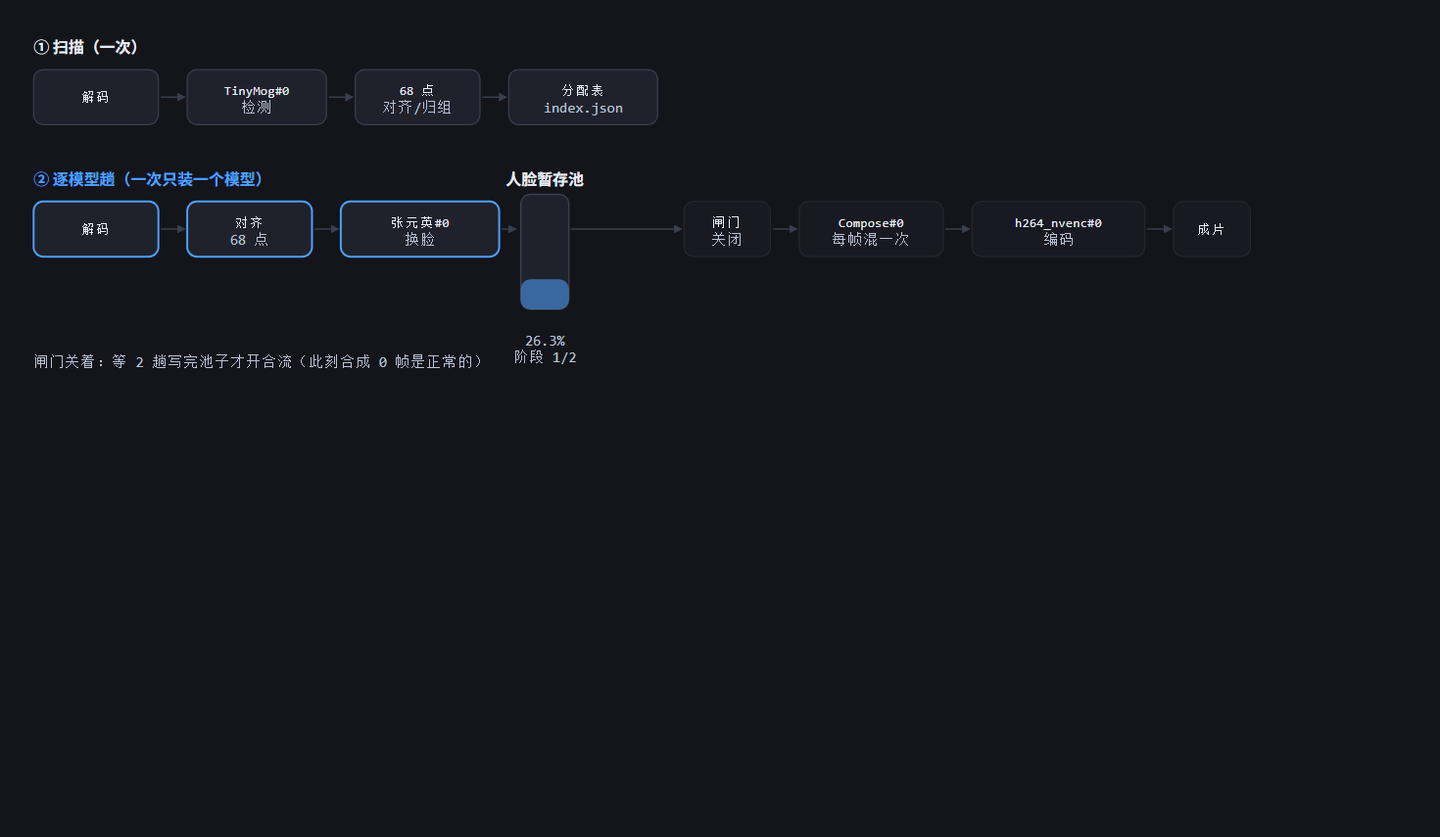
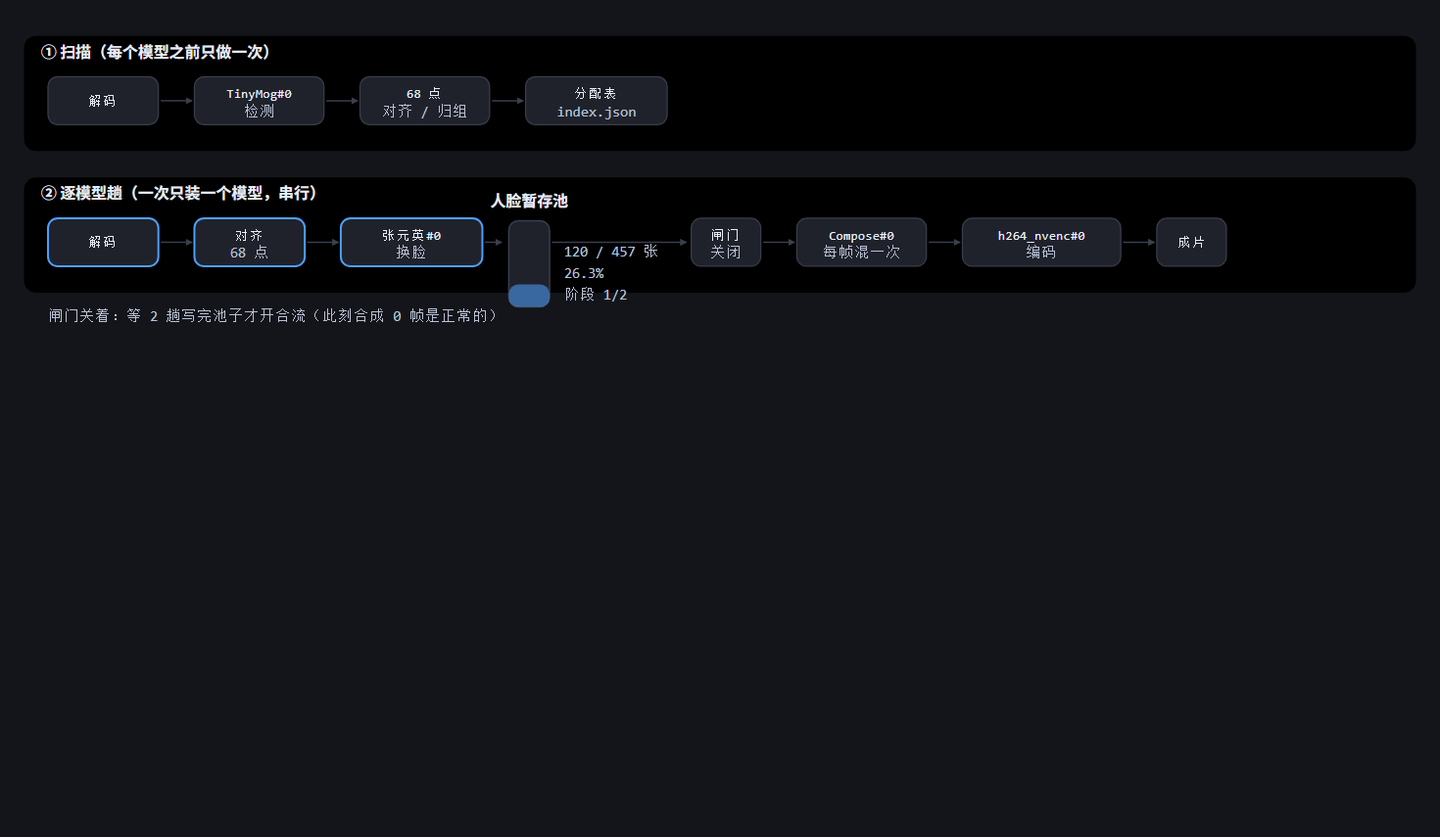
feat(ui): 流程图重画（行带式）+ 「已经在导出」不再报错
版式（用户：怎么画这么丑）：
  · 两条行带：① 扫描（每个模型之前只做一次） ② 逐模型趟（一次只装一个模型，串行）
  · 节点统一 92×40、文字居中；池 34×72 竖着，三行标签在右侧（243/457 张 · 53.2% · 阶段 2/2）
  · 闸门关着时整段后半灰，底部一行解释「等 2 趟写完池子才开合流（此刻合成 0 帧是正常的）」

顺手修掉一个把人误导的真 bug：
  · 导出接口返回 409「已经在导出」时，前端以前弹「导出未启动」——用户看着 GPU 满载却以为没跑。
    现在弹「已有导出在跑 · 界面显示的就是它现在的进度」并继续轮询。

又修掉一个我自己造成的缺失：pool() 里 l1 的 append 在某次编辑中丢了，
所以「243 / 457 张」这一行永远不显示（只有百分比和阶段）。

预览图（无头 Edge 抓真 SVG 单独成页，我自己看过）：
  app/docs/notes/flow_pass.png · flow_scan.png · flow_nomask.png

diff --git a/app/docs/notes/_pv_flow_pass.html b/app/docs/notes/_pv_flow_pass.html
@@ -1,1 +1,1 @@
-<!doctype html><meta charset=utf-8><style>body{margin:0;background:#14151a}#p-merge .mgpipe .t-lane{font-size:11px;fill:#e8ecf5;font-family:ui-monospace,Consolas,monospace}#p-merge .mgpipe .t-count{font-size:12px;fill:#b9c2d6;font-family:ui-monospace,Consolas,monospace}#p-merge .mgpipe .t-stage{font-size:13px;font-weight:600;fill:#e8ecf5}#p-merge .mgpipe .fnode{fill:#20222b;stroke:#3a3f4d;stroke-width:1}#p-merge .mgpipe .fnode.on{stroke:#4ea1ff;stroke-width:1.6}#p-merge .mgpipe .fnode.off{opacity:.45}#p-merge .mgpipe .fedge{stroke:#3a3f4d;stroke-width:1.2;fill:none}#p-merge .mgpipe .farrowhead{fill:#3a3f4d}#p-merge .mgpipe .fpool{fill:#20222b;stroke:#3a3f4d;stroke-width:1.2}#p-merge .mgpipe .fpoolwater{fill:#4ea1ff;opacity:.55}</style><div id=p-merge><div class=mgpipe><svg id="mgPipeSvg" class="mgpipe-svg" viewBox="0 0 1200 340" preserveAspectRatio="xMidYMid meet" role="img" aria-label="导出流水线实况：六列 lane、数据流曲线与在飞帧数"><defs><marker id="fArrow" viewBox="0 0 8 8" refX="7" refY="4" markerWidth="6" markerHeight="6" orient="auto"><path d="M0,0 L8,4 L0,8 z" class="farrowhead"></path></marker></defs><g><text x="28" y="44" class="t-stage">① 扫描（一次）</text><rect x="28" y="58" width="104" height="46" rx="8" class="fnode"></rect><text x="80" y="85" text-anchor="middle" class="t-lane">解码</text><path d="M 134 81 L 154 81" class="fedge" marker-end="url(#fArrow)"></path><rect x="156" y="58" width="116" height="46" rx="8" class="fnode"></rect><text x="214" y="79" text-anchor="middle" class="t-lane">TinyMog#0</text><text x="214" y="94" text-anchor="middle" class="t-count">检测</text><path d="M 274 81 L 294 81" class="fedge" marker-end="url(#fArrow)"></path><rect x="296" y="58" width="104" height="46" rx="8" class="fnode"></rect><text x="348" y="79" text-anchor="middle" class="t-lane">68 点</text><text x="348" y="94" text-anchor="middle" class="t-count">对齐/归组</text><path d="M 402 81 L 422 81" class="fedge" marker-end="url(#fArrow)"></path><rect x="424" y="58" width="124" height="46" rx="8" class="fnode"></rect><text x="486" y="79" text-anchor="middle" class="t-lane">分配表</text><text x="486" y="94" text-anchor="middle" class="t-count">index.json</text><text x="28" y="154" class="t-stage" style="fill:var(--accent,#4ea1ff)">② 逐模型趟（一次只装一个模型）</text><rect x="28" y="168" width="104" height="46" rx="8" class="fnode on"></rect><text x="80" y="195" text-anchor="middle" class="t-lane">解码</text><path d="M 134 191 L 154 191" class="fedge" marker-end="url(#fArrow)"></path><rect x="156" y="168" width="104" height="46" rx="8" class="fnode on"></rect><text x="208" y="189" text-anchor="middle" class="t-lane">对齐</text><text x="208" y="204" text-anchor="middle" class="t-count">68 点</text><path d="M 262 191 L 282 191" class="fedge" marker-end="url(#fArrow)"></path><rect x="284" y="168" width="132" height="46" rx="8" class="fnode on"></rect><text x="350" y="189" text-anchor="middle" class="t-lane">阿証-416#0</text><text x="350" y="204" text-anchor="middle" class="t-count">换脸</text><path d="M 418 191 L 438 191" class="fedge" marker-end="url(#fArrow)"></path><rect x="440" y="168" width="120" height="46" rx="8" class="fnode on"></rect><text x="500" y="189" text-anchor="middle" class="t-lane">XSegLite#0</text><text x="500" y="204" text-anchor="middle" class="t-count">遮罩</text><path d="M 562 191 L 574 191" class="fedge" marker-end="url(#fArrow)"></path><rect x="578" y="162" width="40" height="96" rx="8" class="fpool"></rect><rect x="578" y="206.95404814004377" width="40" height="51.04595185995623" rx="8" class="fpoolwater"></rect><text x="598" y="154" text-anchor="middle" class="t-stage">人脸暂存池</text><text x="598" y="288" text-anchor="middle" class="t-count">53.2%</text><text x="598" y="302" text-anchor="middle" class="t-count">阶段 2/2</text><path d="M 620 191 L 712 191" class="fedge" marker-end="url(#fArrow)"></path><rect x="714" y="168" width="72" height="46" rx="8" class="fnode off"></rect><text x="750" y="189" text-anchor="middle" class="t-lane">闸门</text><text x="750" y="204" text-anchor="middle" class="t-count">关闭</text><path d="M 788 191 L 808 191" class="fedge" marker-end="url(#fArrow)"></path><rect x="810" y="168" width="120" height="46" rx="8" class="fnode off"></rect><text x="870" y="189" text-anchor="middle" class="t-lane">Compose#0</text><text x="870" y="204" text-anchor="middle" class="t-count">每帧混一次</text><path d="M 932 191 L 952 191" class="fedge" marker-end="url(#fArrow)"></path><rect x="954" y="168" width="144" height="46" rx="8" class="fnode off"></rect><text x="1026" y="189" text-anchor="middle" class="t-lane">h264_nvenc#0</text><text x="1026" y="204" text-anchor="middle" class="t-count">编码</text><path d="M 1100 191 L 1120 191" class="fedge" marker-end="url(#fArrow)"></path><rect x="1122" y="168" width="64" height="46" rx="8" class="fnode off"></rect><text x="1154" y="195" text-anchor="middle" class="t-lane">成片</text><text x="28" y="306" class="t-count">闸门关着：等 2 趟写完池子才开合流（此刻合成 0 帧是正常的）</text></g></svg></div></div>
+<!doctype html><meta charset=utf-8><style>body{margin:0;background:#14151a}#p-merge .mgpipe .t-lane{font-size:11px;fill:#e8ecf5;font-family:ui-monospace,Consolas,monospace}#p-merge .mgpipe .t-count{font-size:12px;fill:#b9c2d6;font-family:ui-monospace,Consolas,monospace}#p-merge .mgpipe .t-stage{font-size:13px;font-weight:600;fill:#e8ecf5}#p-merge .mgpipe .fnode{fill:#20222b;stroke:#3a3f4d;stroke-width:1}#p-merge .mgpipe .fnode.on{stroke:#4ea1ff;stroke-width:1.6}#p-merge .mgpipe .fnode.off{opacity:.45}#p-merge .mgpipe .fedge{stroke:#3a3f4d;stroke-width:1.2;fill:none}#p-merge .mgpipe .farrowhead{fill:#3a3f4d}#p-merge .mgpipe .fpool{fill:#20222b;stroke:#3a3f4d;stroke-width:1.2}#p-merge .mgpipe .fpoolwater{fill:#4ea1ff;opacity:.55}</style><div id=p-merge><div class=mgpipe><svg id="mgPipeSvg" class="mgpipe-svg" viewBox="0 0 1200 340" preserveAspectRatio="xMidYMid meet" role="img" aria-label="导出流水线实况：六列 lane、数据流曲线与在飞帧数"><defs><marker id="fArrow" viewBox="0 0 8 8" refX="7" refY="4" markerWidth="5" markerHeight="5" orient="auto"><path d="M0,0 L8,4 L0,8 z" class="farrowhead"></path></marker></defs><g><rect x="20" y="30" width="1160" height="96" rx="10" class="fband"></rect><text x="34" y="48" class="t-stage">① 扫描（每个模型之前只做一次）</text><rect x="20" y="148" width="1160" height="96" rx="10" class="fband on"></rect><text x="34" y="166" class="t-stage on">② 逐模型趟（一次只装一个模型，串行）</text><rect x="40" y="64" width="92" height="40" rx="8" class="fnode"></rect><text x="86" y="88" text-anchor="middle" class="t-lane">解码</text><path d="M 134 84 L 160 84" class="fedge" marker-end="url(#fArrow)"></path><rect x="162" y="64" width="108" height="40" rx="8" class="fnode"></rect><text x="216" y="82" text-anchor="middle" class="t-lane">TinyMog#0</text><text x="216" y="97" text-anchor="middle" class="t-count">检测</text><path d="M 272 84 L 298 84" class="fedge" marker-end="url(#fArrow)"></path><rect x="300" y="64" width="108" height="40" rx="8" class="fnode"></rect><text x="354" y="82" text-anchor="middle" class="t-lane">68 点</text><text x="354" y="97" text-anchor="middle" class="t-count">对齐 / 归组</text><path d="M 410 84 L 436 84" class="fedge" marker-end="url(#fArrow)"></path><rect x="438" y="64" width="118" height="40" rx="8" class="fnode"></rect><text x="497" y="82" text-anchor="middle" class="t-lane">分配表</text><text x="497" y="97" text-anchor="middle" class="t-count">index.json</text><rect x="40" y="182" width="92" height="40" rx="8" class="fnode on"></rect><text x="86" y="206" text-anchor="middle" class="t-lane">解码</text><path d="M 134 202 L 160 202" class="fedge" marker-end="url(#fArrow)"></path><rect x="162" y="182" width="92" height="40" rx="8" class="fnode on"></rect><text x="208" y="200" text-anchor="middle" class="t-lane">对齐</text><text x="208" y="215" text-anchor="middle" class="t-count">68 点</text><path d="M 256 202 L 282 202" class="fedge" marker-end="url(#fArrow)"></path><rect x="284" y="182" width="118" height="40" rx="8" class="fnode on"></rect><text x="343" y="200" text-anchor="middle" class="t-lane">阿証-416#0</text><text x="343" y="215" text-anchor="middle" class="t-count">换脸</text><path d="M 404 202 L 430 202" class="fedge" marker-end="url(#fArrow)"></path><rect x="432" y="182" width="108" height="40" rx="8" class="fnode on"></rect><text x="486" y="200" text-anchor="middle" class="t-lane">XSegLite#0</text><text x="486" y="215" text-anchor="middle" class="t-count">遮罩</text><path d="M 542 202 L 556 202" class="fedge" marker-end="url(#fArrow)"></path><rect x="562" y="184" width="34" height="72" rx="8" class="fpool"></rect><rect x="562" y="217.7155361050328" width="34" height="38.284463894967175" rx="8" class="fpoolwater"></rect><text x="579" y="172" text-anchor="middle" class="t-stage">人脸暂存池</text><text x="608" y="214" class="t-count">243 / 457 张</text><text x="608" y="232" class="t-count">53.2%</text><text x="608" y="250" class="t-count">阶段 2/2</text><path d="M 598 202 L 710 202" class="fedge" marker-end="url(#fArrow)"></path><rect x="714" y="182" width="58" height="40" rx="8" class="fnode"></rect><text x="743" y="200" text-anchor="middle" class="t-lane">闸门</text><text x="743" y="215" text-anchor="middle" class="t-count">关闭</text><path d="M 774 202 L 800 202" class="fedge" marker-end="url(#fArrow)"></path><rect x="802" y="182" width="108" height="40" rx="8" class="fnode"></rect><text x="856" y="200" text-anchor="middle" class="t-lane">Compose#0</text><text x="856" y="215" text-anchor="middle" class="t-count">每帧混一次</text><path d="M 912 202 L 938 202" class="fedge" marker-end="url(#fArrow)"></path><rect x="940" y="182" width="132" height="40" rx="8" class="fnode"></rect><text x="1006" y="200" text-anchor="middle" class="t-lane">h264_nvenc#0</text><text x="1006" y="215" text-anchor="middle" class="t-count">编码</text><path d="M 1074 202 L 1100 202" class="fedge" marker-end="url(#fArrow)"></path><rect x="1102" y="182" width="58" height="40" rx="8" class="fnode"></rect><text x="1131" y="206" text-anchor="middle" class="t-lane">成片</text><text x="40" y="268" class="t-count">闸门关着：等 2 趟写完池子才开合流（此刻合成 0 帧是正常的）</text></g></svg></div></div>

diff --git a/app/docs/notes/_pv_flow_scan.html b/app/docs/notes/_pv_flow_scan.html
@@ -1,1 +1,1 @@
-<!doctype html><meta charset=utf-8><style>body{margin:0;background:#14151a}#p-merge .mgpipe .t-lane{font-size:11px;fill:#e8ecf5;font-family:ui-monospace,Consolas,monospace}#p-merge .mgpipe .t-count{font-size:12px;fill:#b9c2d6;font-family:ui-monospace,Consolas,monospace}#p-merge .mgpipe .t-stage{font-size:13px;font-weight:600;fill:#e8ecf5}#p-merge .mgpipe .fnode{fill:#20222b;stroke:#3a3f4d;stroke-width:1}#p-merge .mgpipe .fnode.on{stroke:#4ea1ff;stroke-width:1.6}#p-merge .mgpipe .fnode.off{opacity:.45}#p-merge .mgpipe .fedge{stroke:#3a3f4d;stroke-width:1.2;fill:none}#p-merge .mgpipe .farrowhead{fill:#3a3f4d}#p-merge .mgpipe .fpool{fill:#20222b;stroke:#3a3f4d;stroke-width:1.2}#p-merge .mgpipe .fpoolwater{fill:#4ea1ff;opacity:.55}</style><div id=p-merge><div class=mgpipe><svg id="mgPipeSvg" class="mgpipe-svg" viewBox="0 0 1200 340" preserveAspectRatio="xMidYMid meet" role="img" aria-label="导出流水线实况：六列 lane、数据流曲线与在飞帧数"><defs><marker id="fArrow" viewBox="0 0 8 8" refX="7" refY="4" markerWidth="6" markerHeight="6" orient="auto"><path d="M0,0 L8,4 L0,8 z" class="farrowhead"></path></marker></defs><g><text x="28" y="44" class="t-stage" style="fill:var(--accent,#4ea1ff)">① 扫描（一次）</text><rect x="28" y="58" width="104" height="46" rx="8" class="fnode on"></rect><text x="80" y="85" text-anchor="middle" class="t-lane">解码</text><path d="M 134 81 L 154 81" class="fedge" marker-end="url(#fArrow)"></path><rect x="156" y="58" width="116" height="46" rx="8" class="fnode on"></rect><text x="214" y="79" text-anchor="middle" class="t-lane">TinyMog#0</text><text x="214" y="94" text-anchor="middle" class="t-count">检测</text><path d="M 274 81 L 294 81" class="fedge" marker-end="url(#fArrow)"></path><rect x="296" y="58" width="104" height="46" rx="8" class="fnode on"></rect><text x="348" y="79" text-anchor="middle" class="t-lane">68 点</text><text x="348" y="94" text-anchor="middle" class="t-count">对齐/归组</text><path d="M 402 81 L 422 81" class="fedge" marker-end="url(#fArrow)"></path><rect x="424" y="58" width="124" height="46" rx="8" class="fnode on"></rect><text x="486" y="79" text-anchor="middle" class="t-lane">分配表</text><text x="486" y="94" text-anchor="middle" class="t-count">index.json</text><text x="28" y="154" class="t-stage">② 逐模型趟（一次只装一个模型）</text><rect x="28" y="168" width="104" height="46" rx="8" class="fnode"></rect><text x="80" y="195" text-anchor="middle" class="t-lane">解码</text><path d="M 134 191 L 154 191" class="fedge" marker-end="url(#fArrow)"></path><rect x="156" y="168" width="104" height="46" rx="8" class="fnode"></rect><text x="208" y="189" text-anchor="middle" class="t-lane">对齐</text><text x="208" y="204" text-anchor="middle" class="t-count">68 点</text><path d="M 262 191 L 282 191" class="fedge" marker-end="url(#fArrow)"></path><rect x="284" y="168" width="132" height="46" rx="8" class="fnode"></rect><text x="350" y="189" text-anchor="middle" class="t-lane">模型#0</text><text x="350" y="204" text-anchor="middle" class="t-count">换脸</text><path d="M 418 191 L 438 191" class="fedge" marker-end="url(#fArrow)"></path><rect x="440" y="168" width="120" height="46" rx="8" class="fnode"></rect><text x="500" y="189" text-anchor="middle" class="t-lane">XSegLite#0</text><text x="500" y="204" text-anchor="middle" class="t-count">遮罩</text><path d="M 562 191 L 574 191" class="fedge" marker-end="url(#fArrow)"></path><rect x="578" y="162" width="40" height="96" rx="8" class="fpool"></rect><rect x="578" y="258" width="40" height="0" rx="8" class="fpoolwater"></rect><text x="598" y="154" text-anchor="middle" class="t-stage">人脸暂存池</text><text x="598" y="288" text-anchor="middle" class="t-count">占比未知</text><text x="598" y="302" text-anchor="middle" class="t-count">已发现（还在涨）</text><path d="M 620 191 L 712 191" class="fedge" marker-end="url(#fArrow)"></path><rect x="714" y="168" width="72" height="46" rx="8" class="fnode off"></rect><text x="750" y="189" text-anchor="middle" class="t-lane">闸门</text><text x="750" y="204" text-anchor="middle" class="t-count">关闭</text><path d="M 788 191 L 808 191" class="fedge" marker-end="url(#fArrow)"></path><rect x="810" y="168" width="120" height="46" rx="8" class="fnode off"></rect><text x="870" y="189" text-anchor="middle" class="t-lane">Compose#0</text><text x="870" y="204" text-anchor="middle" class="t-count">每帧混一次</text><path d="M 932 191 L 952 191" class="fedge" marker-end="url(#fArrow)"></path><rect x="954" y="168" width="144" height="46" rx="8" class="fnode off"></rect><text x="1026" y="189" text-anchor="middle" class="t-lane">h264_nvenc#0</text><text x="1026" y="204" text-anchor="middle" class="t-count">编码</text><path d="M 1100 191 L 1120 191" class="fedge" marker-end="url(#fArrow)"></path><rect x="1122" y="168" width="64" height="46" rx="8" class="fnode off"></rect><text x="1154" y="195" text-anchor="middle" class="t-lane">成片</text><text x="28" y="306" class="t-count">闸门关着：等 2 趟写完池子才开合流（此刻合成 0 帧是正常的）</text></g></svg></div></div>
+<!doctype html><meta charset=utf-8><style>body{margin:0;background:#14151a}#p-merge .mgpipe .t-lane{font-size:11px;fill:#e8ecf5;font-family:ui-monospace,Consolas,monospace}#p-merge .mgpipe .t-count{font-size:12px;fill:#b9c2d6;font-family:ui-monospace,Consolas,monospace}#p-merge .mgpipe .t-stage{font-size:13px;font-weight:600;fill:#e8ecf5}#p-merge .mgpipe .fnode{fill:#20222b;stroke:#3a3f4d;stroke-width:1}#p-merge .mgpipe .fnode.on{stroke:#4ea1ff;stroke-width:1.6}#p-merge .mgpipe .fnode.off{opacity:.45}#p-merge .mgpipe .fedge{stroke:#3a3f4d;stroke-width:1.2;fill:none}#p-merge .mgpipe .farrowhead{fill:#3a3f4d}#p-merge .mgpipe .fpool{fill:#20222b;stroke:#3a3f4d;stroke-width:1.2}#p-merge .mgpipe .fpoolwater{fill:#4ea1ff;opacity:.55}</style><div id=p-merge><div class=mgpipe><svg id="mgPipeSvg" class="mgpipe-svg" viewBox="0 0 1200 340" preserveAspectRatio="xMidYMid meet" role="img" aria-label="导出流水线实况：六列 lane、数据流曲线与在飞帧数"><defs><marker id="fArrow" viewBox="0 0 8 8" refX="7" refY="4" markerWidth="5" markerHeight="5" orient="auto"><path d="M0,0 L8,4 L0,8 z" class="farrowhead"></path></marker></defs><g><rect x="20" y="30" width="1160" height="96" rx="10" class="fband on"></rect><text x="34" y="48" class="t-stage on">① 扫描（每个模型之前只做一次）</text><rect x="20" y="148" width="1160" height="96" rx="10" class="fband"></rect><text x="34" y="166" class="t-stage">② 逐模型趟（一次只装一个模型，串行）</text><rect x="40" y="64" width="92" height="40" rx="8" class="fnode on"></rect><text x="86" y="88" text-anchor="middle" class="t-lane">解码</text><path d="M 134 84 L 160 84" class="fedge" marker-end="url(#fArrow)"></path><rect x="162" y="64" width="108" height="40" rx="8" class="fnode on"></rect><text x="216" y="82" text-anchor="middle" class="t-lane">TinyMog#0</text><text x="216" y="97" text-anchor="middle" class="t-count">检测</text><path d="M 272 84 L 298 84" class="fedge" marker-end="url(#fArrow)"></path><rect x="300" y="64" width="108" height="40" rx="8" class="fnode on"></rect><text x="354" y="82" text-anchor="middle" class="t-lane">68 点</text><text x="354" y="97" text-anchor="middle" class="t-count">对齐 / 归组</text><path d="M 410 84 L 436 84" class="fedge" marker-end="url(#fArrow)"></path><rect x="438" y="64" width="118" height="40" rx="8" class="fnode on"></rect><text x="497" y="82" text-anchor="middle" class="t-lane">分配表</text><text x="497" y="97" text-anchor="middle" class="t-count">index.json</text><rect x="40" y="182" width="92" height="40" rx="8" class="fnode"></rect><text x="86" y="206" text-anchor="middle" class="t-lane">解码</text><path d="M 134 202 L 160 202" class="fedge" marker-end="url(#fArrow)"></path><rect x="162" y="182" width="92" height="40" rx="8" class="fnode"></rect><text x="208" y="200" text-anchor="middle" class="t-lane">对齐</text><text x="208" y="215" text-anchor="middle" class="t-count">68 点</text><path d="M 256 202 L 282 202" class="fedge" marker-end="url(#fArrow)"></path><rect x="284" y="182" width="118" height="40" rx="8" class="fnode"></rect><text x="343" y="200" text-anchor="middle" class="t-lane">模型#0</text><text x="343" y="215" text-anchor="middle" class="t-count">换脸</text><path d="M 404 202 L 430 202" class="fedge" marker-end="url(#fArrow)"></path><rect x="432" y="182" width="108" height="40" rx="8" class="fnode"></rect><text x="486" y="200" text-anchor="middle" class="t-lane">XSegLite#0</text><text x="486" y="215" text-anchor="middle" class="t-count">遮罩</text><path d="M 542 202 L 556 202" class="fedge" marker-end="url(#fArrow)"></path><rect x="562" y="184" width="34" height="72" rx="8" class="fpool"></rect><rect x="562" y="256" width="34" height="0" rx="8" class="fpoolwater"></rect><text x="579" y="172" text-anchor="middle" class="t-stage">人脸暂存池</text><text x="608" y="214" class="t-count">187 张</text><text x="608" y="232" class="t-count">占比未知</text><text x="608" y="250" class="t-count"></text><path d="M 598 202 L 710 202" class="fedge" marker-end="url(#fArrow)"></path><rect x="714" y="182" width="58" height="40" rx="8" class="fnode"></rect><text x="743" y="200" text-anchor="middle" class="t-lane">闸门</text><text x="743" y="215" text-anchor="middle" class="t-count">关闭</text><path d="M 774 202 L 800 202" class="fedge" marker-end="url(#fArrow)"></path><rect x="802" y="182" width="108" height="40" rx="8" class="fnode"></rect><text x="856" y="200" text-anchor="middle" class="t-lane">Compose#0</text><text x="856" y="215" text-anchor="middle" class="t-count">每帧混一次</text><path d="M 912 202 L 938 202" class="fedge" marker-end="url(#fArrow)"></path><rect x="940" y="182" width="132" height="40" rx="8" class="fnode"></rect><text x="1006" y="200" text-anchor="middle" class="t-lane">h264_nvenc#0</text><text x="1006" y="215" text-anchor="middle" class="t-count">编码</text><path d="M 1074 202 L 1100 202" class="fedge" marker-end="url(#fArrow)"></path><rect x="1102" y="182" width="58" height="40" rx="8" class="fnode"></rect><text x="1131" y="206" text-anchor="middle" class="t-lane">成片</text><text x="40" y="268" class="t-count">闸门关着：等 2 趟写完池子才开合流（此刻合成 0 帧是正常的）</text></g></svg></div></div>

diff --git a/app/docs/notes/_pv_flow_nomask.html b/app/docs/notes/_pv_flow_nomask.html
@@ -1,1 +1,1 @@
-<!doctype html><meta charset=utf-8><style>body{margin:0;background:#14151a}#p-merge .mgpipe .t-lane{font-size:11px;fill:#e8ecf5;font-family:ui-monospace,Consolas,monospace}#p-merge .mgpipe .t-count{font-size:12px;fill:#b9c2d6;font-family:ui-monospace,Consolas,monospace}#p-merge .mgpipe .t-stage{font-size:13px;font-weight:600;fill:#e8ecf5}#p-merge .mgpipe .fnode{fill:#20222b;stroke:#3a3f4d;stroke-width:1}#p-merge .mgpipe .fnode.on{stroke:#4ea1ff;stroke-width:1.6}#p-merge .mgpipe .fnode.off{opacity:.45}#p-merge .mgpipe .fedge{stroke:#3a3f4d;stroke-width:1.2;fill:none}#p-merge .mgpipe .farrowhead{fill:#3a3f4d}#p-merge .mgpipe .fpool{fill:#20222b;stroke:#3a3f4d;stroke-width:1.2}#p-merge .mgpipe .fpoolwater{fill:#4ea1ff;opacity:.55}</style><div id=p-merge><div class=mgpipe><svg id="mgPipeSvg" class="mgpipe-svg" viewBox="0 0 1200 340" preserveAspectRatio="xMidYMid meet" role="img" aria-label="导出流水线实况：六列 lane、数据流曲线与在飞帧数"><defs><marker id="fArrow" viewBox="0 0 8 8" refX="7" refY="4" markerWidth="6" markerHeight="6" orient="auto"><path d="M0,0 L8,4 L0,8 z" class="farrowhead"></path></marker></defs><g><text x="28" y="44" class="t-stage">① 扫描（一次）</text><rect x="28" y="58" width="104" height="46" rx="8" class="fnode"></rect><text x="80" y="85" text-anchor="middle" class="t-lane">解码</text><path d="M 134 81 L 154 81" class="fedge" marker-end="url(#fArrow)"></path><rect x="156" y="58" width="116" height="46" rx="8" class="fnode"></rect><text x="214" y="79" text-anchor="middle" class="t-lane">TinyMog#0</text><text x="214" y="94" text-anchor="middle" class="t-count">检测</text><path d="M 274 81 L 294 81" class="fedge" marker-end="url(#fArrow)"></path><rect x="296" y="58" width="104" height="46" rx="8" class="fnode"></rect><text x="348" y="79" text-anchor="middle" class="t-lane">68 点</text><text x="348" y="94" text-anchor="middle" class="t-count">对齐/归组</text><path d="M 402 81 L 422 81" class="fedge" marker-end="url(#fArrow)"></path><rect x="424" y="58" width="124" height="46" rx="8" class="fnode"></rect><text x="486" y="79" text-anchor="middle" class="t-lane">分配表</text><text x="486" y="94" text-anchor="middle" class="t-count">index.json</text><text x="28" y="154" class="t-stage" style="fill:var(--accent,#4ea1ff)">② 逐模型趟（一次只装一个模型）</text><rect x="28" y="168" width="104" height="46" rx="8" class="fnode on"></rect><text x="80" y="195" text-anchor="middle" class="t-lane">解码</text><path d="M 134 191 L 154 191" class="fedge" marker-end="url(#fArrow)"></path><rect x="156" y="168" width="104" height="46" rx="8" class="fnode on"></rect><text x="208" y="189" text-anchor="middle" class="t-lane">对齐</text><text x="208" y="204" text-anchor="middle" class="t-count">68 点</text><path d="M 262 191 L 282 191" class="fedge" marker-end="url(#fArrow)"></path><rect x="284" y="168" width="132" height="46" rx="8" class="fnode on"></rect><text x="350" y="189" text-anchor="middle" class="t-lane">张元英#0</text><text x="350" y="204" text-anchor="middle" class="t-count">换脸</text><path d="M 418 191 L 430 191" class="fedge" marker-end="url(#fArrow)"></path><rect x="434" y="162" width="40" height="96" rx="8" class="fpool"></rect><rect x="434" y="232.79212253829323" width="40" height="25.20787746170678" rx="8" class="fpoolwater"></rect><text x="454" y="154" text-anchor="middle" class="t-stage">人脸暂存池</text><text x="454" y="288" text-anchor="middle" class="t-count">26.3%</text><text x="454" y="302" text-anchor="middle" class="t-count">阶段 1/2</text><path d="M 476 191 L 568 191" class="fedge" marker-end="url(#fArrow)"></path><rect x="570" y="168" width="72" height="46" rx="8" class="fnode off"></rect><text x="606" y="189" text-anchor="middle" class="t-lane">闸门</text><text x="606" y="204" text-anchor="middle" class="t-count">关闭</text><path d="M 644 191 L 664 191" class="fedge" marker-end="url(#fArrow)"></path><rect x="666" y="168" width="120" height="46" rx="8" class="fnode off"></rect><text x="726" y="189" text-anchor="middle" class="t-lane">Compose#0</text><text x="726" y="204" text-anchor="middle" class="t-count">每帧混一次</text><path d="M 788 191 L 808 191" class="fedge" marker-end="url(#fArrow)"></path><rect x="810" y="168" width="144" height="46" rx="8" class="fnode off"></rect><text x="882" y="189" text-anchor="middle" class="t-lane">h264_nvenc#0</text><text x="882" y="204" text-anchor="middle" class="t-count">编码</text><path d="M 956 191 L 976 191" class="fedge" marker-end="url(#fArrow)"></path><rect x="978" y="168" width="64" height="46" rx="8" class="fnode off"></rect><text x="1010" y="195" text-anchor="middle" class="t-lane">成片</text><text x="28" y="306" class="t-count">闸门关着：等 2 趟写完池子才开合流（此刻合成 0 帧是正常的）</text></g></svg></div></div>
+<!doctype html><meta charset=utf-8><style>body{margin:0;background:#14151a}#p-merge .mgpipe .t-lane{font-size:11px;fill:#e8ecf5;font-family:ui-monospace,Consolas,monospace}#p-merge .mgpipe .t-count{font-size:12px;fill:#b9c2d6;font-family:ui-monospace,Consolas,monospace}#p-merge .mgpipe .t-stage{font-size:13px;font-weight:600;fill:#e8ecf5}#p-merge .mgpipe .fnode{fill:#20222b;stroke:#3a3f4d;stroke-width:1}#p-merge .mgpipe .fnode.on{stroke:#4ea1ff;stroke-width:1.6}#p-merge .mgpipe .fnode.off{opacity:.45}#p-merge .mgpipe .fedge{stroke:#3a3f4d;stroke-width:1.2;fill:none}#p-merge .mgpipe .farrowhead{fill:#3a3f4d}#p-merge .mgpipe .fpool{fill:#20222b;stroke:#3a3f4d;stroke-width:1.2}#p-merge .mgpipe .fpoolwater{fill:#4ea1ff;opacity:.55}</style><div id=p-merge><div class=mgpipe><svg id="mgPipeSvg" class="mgpipe-svg" viewBox="0 0 1200 340" preserveAspectRatio="xMidYMid meet" role="img" aria-label="导出流水线实况：六列 lane、数据流曲线与在飞帧数"><defs><marker id="fArrow" viewBox="0 0 8 8" refX="7" refY="4" markerWidth="5" markerHeight="5" orient="auto"><path d="M0,0 L8,4 L0,8 z" class="farrowhead"></path></marker></defs><g><rect x="20" y="30" width="1160" height="96" rx="10" class="fband"></rect><text x="34" y="48" class="t-stage">① 扫描（每个模型之前只做一次）</text><rect x="20" y="148" width="1160" height="96" rx="10" class="fband on"></rect><text x="34" y="166" class="t-stage on">② 逐模型趟（一次只装一个模型，串行）</text><rect x="40" y="64" width="92" height="40" rx="8" class="fnode"></rect><text x="86" y="88" text-anchor="middle" class="t-lane">解码</text><path d="M 134 84 L 160 84" class="fedge" marker-end="url(#fArrow)"></path><rect x="162" y="64" width="108" height="40" rx="8" class="fnode"></rect><text x="216" y="82" text-anchor="middle" class="t-lane">TinyMog#0</text><text x="216" y="97" text-anchor="middle" class="t-count">检测</text><path d="M 272 84 L 298 84" class="fedge" marker-end="url(#fArrow)"></path><rect x="300" y="64" width="108" height="40" rx="8" class="fnode"></rect><text x="354" y="82" text-anchor="middle" class="t-lane">68 点</text><text x="354" y="97" text-anchor="middle" class="t-count">对齐 / 归组</text><path d="M 410 84 L 436 84" class="fedge" marker-end="url(#fArrow)"></path><rect x="438" y="64" width="118" height="40" rx="8" class="fnode"></rect><text x="497" y="82" text-anchor="middle" class="t-lane">分配表</text><text x="497" y="97" text-anchor="middle" class="t-count">index.json</text><rect x="40" y="182" width="92" height="40" rx="8" class="fnode on"></rect><text x="86" y="206" text-anchor="middle" class="t-lane">解码</text><path d="M 134 202 L 160 202" class="fedge" marker-end="url(#fArrow)"></path><rect x="162" y="182" width="92" height="40" rx="8" class="fnode on"></rect><text x="208" y="200" text-anchor="middle" class="t-lane">对齐</text><text x="208" y="215" text-anchor="middle" class="t-count">68 点</text><path d="M 256 202 L 282 202" class="fedge" marker-end="url(#fArrow)"></path><rect x="284" y="182" width="118" height="40" rx="8" class="fnode on"></rect><text x="343" y="200" text-anchor="middle" class="t-lane">张元英#0</text><text x="343" y="215" text-anchor="middle" class="t-count">换脸</text><path d="M 404 202 L 418 202" class="fedge" marker-end="url(#fArrow)"></path><rect x="424" y="184" width="34" height="72" rx="8" class="fpool"></rect><rect x="424" y="237.0940919037199" width="34" height="18.905908096280086" rx="8" class="fpoolwater"></rect><text x="441" y="172" text-anchor="middle" class="t-stage">人脸暂存池</text><text x="470" y="214" class="t-count">120 / 457 张</text><text x="470" y="232" class="t-count">26.3%</text><text x="470" y="250" class="t-count">阶段 1/2</text><path d="M 460 202 L 572 202" class="fedge" marker-end="url(#fArrow)"></path><rect x="576" y="182" width="58" height="40" rx="8" class="fnode"></rect><text x="605" y="200" text-anchor="middle" class="t-lane">闸门</text><text x="605" y="215" text-anchor="middle" class="t-count">关闭</text><path d="M 636 202 L 662 202" class="fedge" marker-end="url(#fArrow)"></path><rect x="664" y="182" width="108" height="40" rx="8" class="fnode"></rect><text x="718" y="200" text-anchor="middle" class="t-lane">Compose#0</text><text x="718" y="215" text-anchor="middle" class="t-count">每帧混一次</text><path d="M 774 202 L 800 202" class="fedge" marker-end="url(#fArrow)"></path><rect x="802" y="182" width="132" height="40" rx="8" class="fnode"></rect><text x="868" y="200" text-anchor="middle" class="t-lane">h264_nvenc#0</text><text x="868" y="215" text-anchor="middle" class="t-count">编码</text><path d="M 936 202 L 962 202" class="fedge" marker-end="url(#fArrow)"></path><rect x="964" y="182" width="58" height="40" rx="8" class="fnode"></rect><text x="993" y="206" text-anchor="middle" class="t-lane">成片</text><text x="40" y="268" class="t-count">闸门关着：等 2 趟写完池子才开合流（此刻合成 0 帧是正常的）</text></g></svg></div></div>

diff --git a/app/web/js/app/21-pipe-phases.js b/app/web/js/app/21-pipe-phases.js
@@ -20,7 +20,8 @@
   }
 
   /* 一个环节：圆角矩形 + 名字 + 副字 */
-  function node(g, x, y, w, h, label, sub, state) {
+  function node(g, x, y, w, h, label, sub, on) {
+    var state = on ? "on" : "";
     g.appendChild(mk("rect", { x: x, y: y, width: w, height: h, rx: 8,
                               "class": "fnode" + (state ? " " + state : "") }));
     var t = mk("text", { x: x + w / 2, y: y + (sub ? h / 2 - 2 : h / 2 + 4),
@@ -45,97 +46,91 @@
     var fillH = Math.max(0, h * pct);
     g.appendChild(mk("rect", { x: x, y: y + (h - fillH), width: w, height: fillH,
                                rx: 8, "class": "fpoolwater" }));
-    var ttl = mk("text", { x: x + w / 2, y: y - 8, "text-anchor": "middle", "class": "t-stage" });
+    var ttl = mk("text", { x: x + w / 2, y: y - 12, "text-anchor": "middle", "class": "t-stage" });
     ttl.textContent = "人脸暂存池"; g.appendChild(ttl);
-    var l1 = mk("text", { x: x + w / 2, y: y + h + 16, "text-anchor": "middle", "class": "t-count" });
+    var l1 = mk("text", { x: x + w + 12, y: y + 30, "class": "t-count" });
     l1.textContent = scanning ? (faces + " 张") : (faces + " / " + (total || "?") + " 张");
-    var l2 = mk("text", { x: x + w / 2, y: y + h + 30, "text-anchor": "middle", "class": "t-count" });
+    g.appendChild(l1);
+    var l2 = mk("text", { x: x + w + 12, y: y + 48, "class": "t-count" });
     l2.textContent = scanning ? "占比未知" : (total ? (Math.round(pct * 1000) / 10) + "%" : "—");
     g.appendChild(l2);
-    var l3 = mk("text", { x: x + w / 2, y: y + h + 44, "text-anchor": "middle", "class": "t-count" });
+    var l3 = mk("text", { x: x + w + 12, y: y + 66, "class": "t-count" });
     l3.textContent = stageTxt || ""; g.appendChild(l3);
   }
 
   function draw(svg, d) {
-    var W = 1200, H = 340;
     while (svg.firstChild) svg.removeChild(svg.firstChild);
     var defs = mk("defs");
     var m = mk("marker", { id: "fArrow", viewBox: "0 0 8 8", refX: 7, refY: 4,
-                            markerWidth: 6, markerHeight: 6, orient: "auto" });
+                            markerWidth: 5, markerHeight: 5, orient: "auto" });
     m.appendChild(mk("path", { d: "M0,0 L8,4 L0,8 z", "class": "farrowhead" }));
     defs.appendChild(m); svg.appendChild(defs);
     var g = mk("g"); svg.appendChild(g);
 
     var cur = String(d.work_phase || d.phase || "");
-    var maskOn = (d.mask_on !== false);   // 后端说本单没有遮罩模型 -> 遮罩那格整格不画
+    var maskOn = (d.mask_on !== false);
     var pi = d.pass_info || {};
     var nPass = pi.n || 2;
-    var passLabel = pi.label || "模型";
+    var label = pi.label || "模型";
     var poolFaces = (d.pool || {}).faces || 0;
     var poolTotal = (d.pool || {}).faces_total || 0;
     var gateOpen = (cur === "merge" || cur === "encode");
+    var scanning = (cur === "scan") || (d.pool_frozen === false);
 
-    /* 两行固定布局：宽度先算好再画，保证 1200 内放得下（上一版溢出，成片被切掉）。 */
-    var NW = 104, NH = 46, GAP = 24, PAD = 28;
-    var rowY = [58, 168];
-    function rowLabel(y, txt, on) {
-      var t = mk("text", { x: PAD, y: y - 14, "class": "t-stage" });
-      t.textContent = txt;
-      if (on) t.setAttribute("style", "fill:var(--accent,#4ea1ff)");
-      g.appendChild(t);
+    var NW = 92, NH = 40, GAP = 30;
+    var rows = [{ y: 60, label: "① 扫描（每个模型之前只做一次）", on: cur === "scan" },
+                { y: 178, label: "② 逐模型趟（一次只装一个模型，串行）", on: cur === "pass" }];
+    for (var r = 0; r < rows.length; r++) {
+      var band = rows[r];
+      g.appendChild(mk("rect", { x: 20, y: band.y - 30, width: 1160, height: 96, rx: 10,
+                                 "class": "fband" + (band.on ? " on" : "") }));
+      var bt = mk("text", { x: 34, y: band.y - 12, "class": "t-stage" + (band.on ? " on" : "") });
+      bt.textContent = band.label; g.appendChild(bt);
     }
 
-    /* ---- ① 扫描（每个模型之前只做一次） ---- */
-    rowLabel(rowY[0], "① 扫描（一次）", cur === "scan");
-    var x = PAD, y = rowY[0];
-    node(g, x, y, NW, NH, "解码", null, cur === "scan" ? "on" : "");
+    /* ---- ① 扫描 ---- */
+    var y = rows[0].y + 4, x = 40;
+    node(g, x, y, NW, NH, "解码", null, cur === "scan");
     x += NW; arrow(g, x + 2, y + NH / 2, x + GAP - 2, y + NH / 2); x += GAP;
-    node(g, x, y, NW + 12, NH, "TinyMog#0", "检测", cur === "scan" ? "on" : "");
-    x += NW + 12; arrow(g, x + 2, y + NH / 2, x + GAP - 2, y + NH / 2); x += GAP;
-    node(g, x, y, NW, NH, "68 点", "对齐/归组", cur === "scan" ? "on" : "");
-    x += NW; arrow(g, x + 2, y + NH / 2, x + GAP - 2, y + NH / 2); x += GAP;
-    node(g, x, y, NW + 20, NH, "分配表", "index.json", cur === "scan" ? "on" : "");
+    node(g, x, y, NW + 16, NH, "TinyMog#0", "检测", cur === "scan");
+    x += NW + 16; arrow(g, x + 2, y + NH / 2, x + GAP - 2, y + NH / 2); x += GAP;
+    node(g, x, y, NW + 16, NH, "68 点", "对齐 / 归组", cur === "scan");
+    x += NW + 16; arrow(g, x + 2, y + NH / 2, x + GAP - 2, y + NH / 2); x += GAP;
+    node(g, x, y, NW + 26, NH, "分配表", "index.json", cur === "scan");
 
-    /* ---- ② 逐模型趟（串行）→ 池 → 闸门 → 合流 → 成片 ---- */
-    rowLabel(rowY[1], "② 逐模型趟（一次只装一个模型）", cur === "pass");
-    x = PAD; y = rowY[1];
-    node(g, x, y, NW, NH, "解码", null, cur === "pass" ? "on" : "");
+    /* ---- ② 逐模型趟 → 池 → 闸门 → 合流 ---- */
+    y = rows[1].y + 4; x = 40;
+    node(g, x, y, NW, NH, "解码", null, cur === "pass");
     x += NW; arrow(g, x + 2, y + NH / 2, x + GAP - 2, y + NH / 2); x += GAP;
-    node(g, x, y, NW, NH, "对齐", "68 点", cur === "pass" ? "on" : "");
+    node(g, x, y, NW, NH, "对齐", "68 点", cur === "pass");
     x += NW; arrow(g, x + 2, y + NH / 2, x + GAP - 2, y + NH / 2); x += GAP;
-    node(g, x, y, NW + 28, NH, passLabel + "#0", "换脸", cur === "pass" ? "on" : "");
-    x += NW + 28;
+    node(g, x, y, NW + 26, NH, label + "#0", "换脸", cur === "pass");
+    x += NW + 26;
     if (maskOn) {
       arrow(g, x + 2, y + NH / 2, x + GAP - 2, y + NH / 2); x += GAP;
-      node(g, x, y, NW + 16, NH, "XSegLite#0", "遮罩", cur === "pass" ? "on" : "");
+      node(g, x, y, NW + 16, NH, "XSegLite#0", "遮罩", cur === "pass");
       x += NW + 16;
     }
 
-    /* 池：竖着挂在遮罩之后，标签在池子右侧（上一版压在下面，看不清） */
-    var pw = 40, ph = 96, px = x + 18, py = y - 6;
-    arrow(g, x + 2, y + NH / 2, px - 4, y + NH / 2);
-    var scanning = (cur === "scan") || (d.pool_frozen === false);
+    /* 池：竖着，标签在**右侧**三行，闸门再往右让开 */
+    var pw = 34, ph = 72, px = x + 22, py = y + 2;
+    arrow(g, x + 2, y + NH / 2, px - 6, y + NH / 2);
     pool(g, px, py, pw, ph, poolFaces, poolTotal,
-         scanning ? "已发现（还在涨）" : (pi.i ? ("阶段 " + pi.i + "/" + pi.n) : ""),
-         scanning);
+         scanning ? "" : (pi.i ? ("阶段 " + pi.i + "/" + pi.n) : ""), scanning);
 
-    /* 闸门 */
-    var gx = px + pw + 96, gy = y;
-    arrow(g, px + pw + 2, y + NH / 2, gx - 2, gy + NH / 2);
-    node(g, gx, gy, 72, NH, "闸门", gateOpen ? "已开" : "关闭",
-         gateOpen ? "on" : "off");
+    var gx = px + pw + 118, gy = y;
+    arrow(g, px + pw + 2, y + NH / 2, gx - 4, gy + NH / 2);
+    node(g, gx, gy, 58, NH, "闸门", gateOpen ? "已开" : "关闭", gateOpen);
 
-    /* 合流 → 编码 → 成片 */
-    x = gx + 72; arrow(g, x + 2, gy + NH / 2, x + GAP - 2, gy + NH / 2); x += GAP;
-    node(g, x, gy, NW + 16, NH, "Compose#0", "每帧混一次", gateOpen ? "on" : "off");
+    x = gx + 58; arrow(g, x + 2, gy + NH / 2, x + GAP - 2, gy + NH / 2); x += GAP;
+    node(g, x, gy, NW + 16, NH, "Compose#0", "每帧混一次", gateOpen);
     x += NW + 16; arrow(g, x + 2, gy + NH / 2, x + GAP - 2, gy + NH / 2); x += GAP;
-    node(g, x, gy, NW + 40, NH, "h264_nvenc#0", "编码", gateOpen ? "on" : "off");
+    node(g, x, gy, NW + 40, NH, "h264_nvenc#0", "编码", gateOpen);
     x += NW + 40; arrow(g, x + 2, gy + NH / 2, x + GAP - 2, gy + NH / 2); x += GAP;
-    node(g, x, gy, 64, NH, "成片", null, gateOpen ? "on" : "off");
+    node(g, x, gy, 58, NH, "成片", null, gateOpen);
 
-    /* 闸门关着时补一句人话（用户要能看懂「为什么后面不动」） */
     if (!gateOpen) {
-      var tip = mk("text", { x: PAD, y: 306, "class": "t-count" });
+      var tip = mk("text", { x: 40, y: 268, "class": "t-count" });
       tip.textContent = "闸门关着：等 " + nPass + " 趟写完池子才开合流（此刻合成 0 帧是正常的）";
       g.appendChild(tip);
     }

diff --git a/app/web/js/app/20-progress-fused.js b/app/web/js/app/20-progress-fused.js
@@ -216,7 +216,12 @@
         window.__mergeExporting = false;
         window.__mgFusedRunning = false;
         mgFusedStopPoll();
-        toast("导出未启动", String((e && e.message) || e).slice(0, 140), "error");
+          if (String((e && e.message) || e).indexOf("已经在导出") >= 0) {
+            toast("已有导出在跑", "界面显示的就是它现在的进度；要重来请先点取消导出", "info");
+            mgFusedStartPoll();
+            return;
+          }
+          toast("导出未启动", String((e && e.message) || e).slice(0, 140), "error");
       });
     }
     window.mgFusedExport = mgFusedExport;

diff --git a/app/web/css/app.css b/app/web/css/app.css
@@ -6365,3 +6365,15 @@ body.fdb-dragging, body.fdb-dragging * { cursor: grabbing !important; }
   fill: var(--accent, #4ea1ff);
   opacity: .55;
 }
+
+/* 分趟流程图：行带 + 紧凑节点 */
+#p-merge .mgpipe .fband {
+  fill: rgba(255,255,255,.016);
+  stroke: rgba(255,255,255,.05);
+  stroke-width: 1;
+}
+#p-merge .mgpipe .fband.on {
+  fill: rgba(78,161,255,.05);
+  stroke: rgba(78,161,255,.22);
+}
+#p-merge .mgpipe .t-stage.on { fill: #4ea1ff; }
